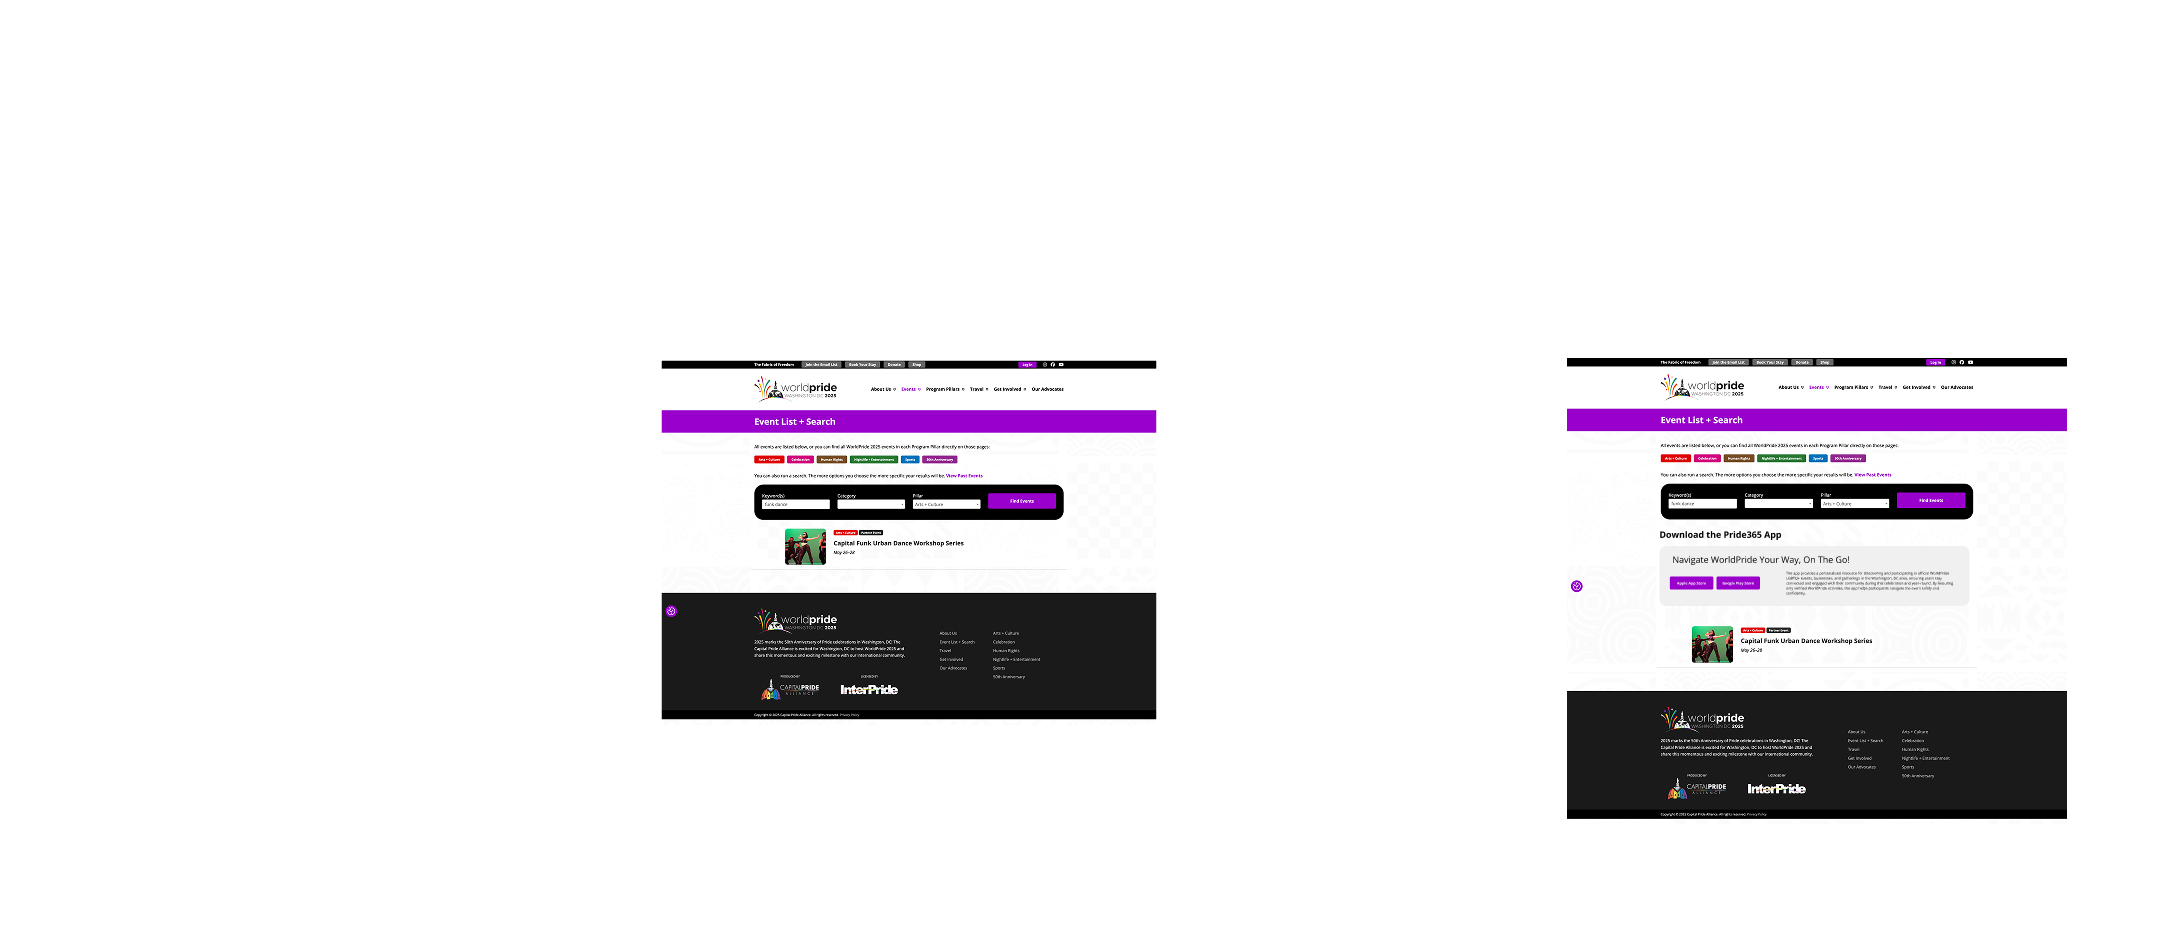
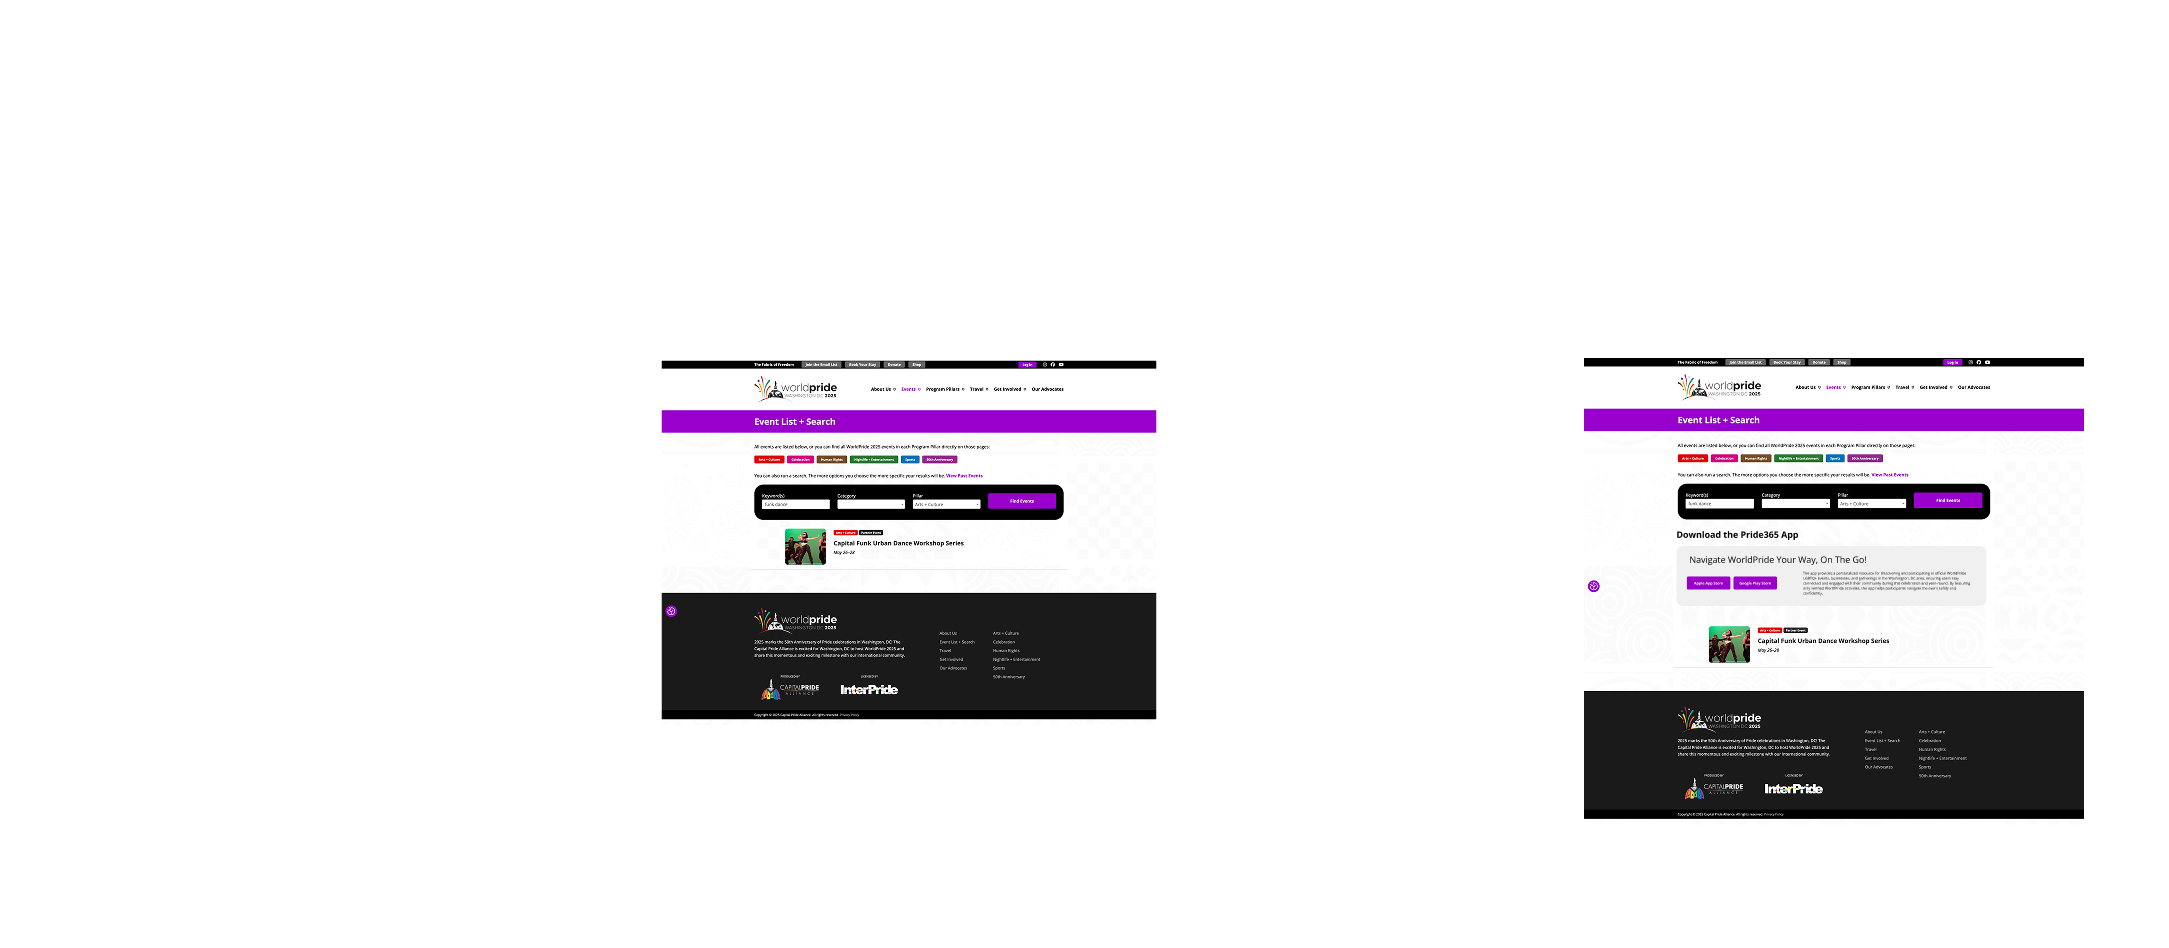
editing new pride html

diff --git a/pride.html b/pride.html
@@ -57,11 +57,16 @@
 			<ul>
 				<li>UI/UX Designer</li>
 				<li>Web Designer</li>
+				<li>UX Researcher</li>
 			</ul>
 		</div><!--end info box left-->
 	</div><!--end info box-->
 
-
+	<figure >
+		<img class="two-thirds" src="images/pride/prideMiniHero.png" alt="Pride celebrants on a bus in Washington DC">
+		<figcaption style="float: right; font-size: 0.8em; padding: 25px; width: 100%;">Above: Image courtesy of Capital Pride Alliance
+.</figcaption>
+	</figure>
 
 	<div class="info-box">
 		<div class="info-box-left">
@@ -76,7 +81,7 @@
 
 	<figure >
 		<img src="images/pride/twowebsites.png" alt="laptop rendering of two websites, capitalpride.org and worldpridecd.org">
-		<figcaption style="float: right; font-size: 0.8em; padding: 25px; width: 100%;">Above: The flagship website for WorldPride 2025, WorldPrideDC.org.</figcaption>
+		<figcaption style="float: right; font-size: 0.8em; padding: 25px; width: 100%;">Above, left to right: CapitalPride.org, Pride365 App download page on CapitalPride.org, WorldPrideDC.org.</figcaption>
 	</figure>
 
 	<div class="info-box">
@@ -93,14 +98,8 @@
 	</div><!--end info box-->
 
 	<figure >
-		<img class="one-half tablet-float-right tablet-margin-right-1" src="images/pride/eventsorting.png" alt="card sorting events with post it notes in figjam app">
+		<img src="images/pride/cardsorting.png" alt="card sorting events with post it notes in figjam app">
 		<figcaption style="float: right; font-size: 0.8em; padding: 25px; width: 100%;">Above: initial card sorting of events to understand and breakdown the mindsets and personas attending WorldPride 2025.</figcaption>
-	</figure>
-
-
-	<figure >
-		<img class="one-half tablet-float-left tablet-margin-right-1" src="images/pride/pride365page.png" alt="card sorting events with post it notes in figjam app">
-		<figcaption style="float: left; font-size: 0.8em; padding: 25px; width: 100%;">Above: initial card sorting of events to understand and breakdown the mindsets and personas attending WorldPride 2025.</figcaption>
 	</figure>
 
 	<div class="info-box">
@@ -127,29 +126,26 @@
 	</div><!--end info box-->
 
 	<figure >
-		<img src="images/pride/celebration.png" alt="illustration of brand in stick figure style, showing a man and woman in front of the store with St. John's bridge and Mt. Hood">
+		<img src="images/pride/celebration.png" alt="xxxxxxx">
+		<figcaption style="float: left; font-size: 0.8em; padding: 25px;">Above: Before and after addition of the Pride365 app CTA on the pillar page "Celebration".</figcaption>
 	</figure>
 
-
+	<figure >
+		<img src="images/pride/humanrights.png" alt="xxxxxxx">
+		<figcaption style="float: left; font-size: 0.8em; padding: 25px;">Above: Before and after addition of the Pride365 app CTA on the pillar page "Human Rights""</figcaption>
+	</figure>
 
 	<figure >
-		<img src="images/newsletter/newsletter_assets.png" alt="Samples of new visual assets made">
+		<img src="images/pride/searchresults.png" alt="Samples of new visual assets made">
 		<figcaption style="float: left; font-size: 0.8em; padding: 25px;">Above: Updated imagery aligned with Ashoka’s 2019 style guide, bringing cohesion and vibrancy to newsletter visuals.</figcaption>
 	</figure>
 
 	<figure >
-		<img class="two-thirds tablet-float-right" src="images/styleguide/styleguide_logo.png" >
-		<figcaption style="float: right; font-size: 0.8em; padding: 25px;">Above: First and foremost, our team needed to communicate the standard for the most important aspect of the brand: the logo.</figcaption>
+		<img src="images/pride/closeupcta.png" alt="examples of illustration of brand in stick figure style showing cheese and wine and menu flyer">
+		<figcaption style="float: left; font-size: 0.8em; padding: 25px;">Above: Close up of the CTA on WorldPridedc.org.</figcaption>
 	</figure>
 
 
-	<figure >
-		<img src="images/pride/humanrights.png" alt="illustration of brand in stick figure style, showing a man and woman in front of the store with St. John's bridge and Mt. Hood">
-	</figure>
-
-	<figure >
-		<img class="two-thirds tablet-float-right tablet-margin-right-1" src="images/pride/closeupcta.png" alt="examples of illustration of brand in stick figure style showing cheese and wine and menu flyer">
-	</figure>
 
 	<div class="info-box">
 		<div class="info-box-right">
@@ -162,6 +158,12 @@
 				<li>Quantitative result: After implementing CTA placements on the six program pillar pages and event search results, app downloads surged to ~3,000 in one week compared to ~100 the previous week before optimization — a 30x increase in adoption.</li>
 		</div><!--end info box left-->
 	</div><!--end info box-->
+
+
+	<figure >
+		<img class="two-thirds tablet-float-right" src="images/styleguide/styleguide_logo.png" >
+		<figcaption style="float: right; font-size: 0.8em; padding: 25px;">Above: First and foremost, our team needed to communicate the standard for the most important aspect of the brand: the logo.</figcaption>
+	</figure>
 
 	<p style="text-align: center; padding-bottom: 25px;"><a href="index.html">Back to Home</a></p>
 

diff --git a/index.html b/index.html
@@ -19,37 +19,37 @@
 	<script src="https://ajax.googleapis.com/ajax/libs/jquery/3.2.1/jquery.min.js"></script>
 	<script src="js/noframework.waypoints.min.js"></script>
 
-<!--vanilla JS Text Flapper -->
-<script>
-document.addEventListener("DOMContentLoaded", function(){
-  const el = document.getElementById('tagline');
-  const finalText = el.textContent;
-  const chars = 'ABCDEFGHIJKLMNOPQRSTUVWXYZabcdefghijklmnopqrstuvwxyz!@#$%^&*() ,.-';
-  let frame = 0;
 
-  const interval = setInterval(() => {
-    let out = '';
-    for (let i = 0; i < finalText.length; i++) {
-      out += (i < frame) ? finalText[i] : chars[Math.floor(Math.random() * chars.length)];
-    }
-    el.textContent = out;
-    frame++;
-    if (frame > finalText.length) {
-      clearInterval(interval);
-      el.textContent = finalText;
-    }
-  }, 110);
-});
-</script>
+	<!--vanilla JS Text Flapper -->
+	<script>
+	document.addEventListener("DOMContentLoaded", function(){
+	  const el = document.getElementById('tagline');
+	  const finalText = el.textContent;
+	  const chars = 'ABCDEFGHIJKLMNOPQRSTUVWXYZabcdefghijklmnopqrstuvwxyz!@#$%^&*() ,.-';
+	  let frame = 0;
 
+	  const interval = setInterval(() => {
+	    let out = '';
+	    for (let i = 0; i < finalText.length; i++) {
+	      out += (i < frame) ? finalText[i] : chars[Math.floor(Math.random() * chars.length)];
+	    }
+	    el.textContent = out;
+	    frame++;
+	    if (frame > finalText.length) {
+	      clearInterval(interval);
+	      el.textContent = finalText;
+	    }
+	  }, 110);
+	});
+	</script>
 
 </head>
+
 <style>
 #myNav {
     width: 0;
     z-index: 5;
 }
-
 </style>
 
 <body>
@@ -232,6 +232,7 @@ var waypoint = new Waypoint({
   }
 })
 </script>
+<!-- script for site's UI functionality -->
 <script src="js/design.js"></script>
 <script src="js/cookie_2.js"></script>
 

diff --git a/css/main.css b/css/main.css
@@ -97,7 +97,7 @@ figure {
 	top: 50%;
 	left: 50%;
 	transform: translate(75%, -50%);
-	transition: 3300ms all cubic-bezier(0.27, 1.86, 0.3, 1.26);
+	transition: 3800ms all cubic-bezier(0.37, 2, 0.3, 1.26);
 	opacity: 0;
 }
 /*transition-delay: 500ms; original transition: 2300ms all cubic-bezier(0.27, 0.86, 0.4, 1.26);*/
